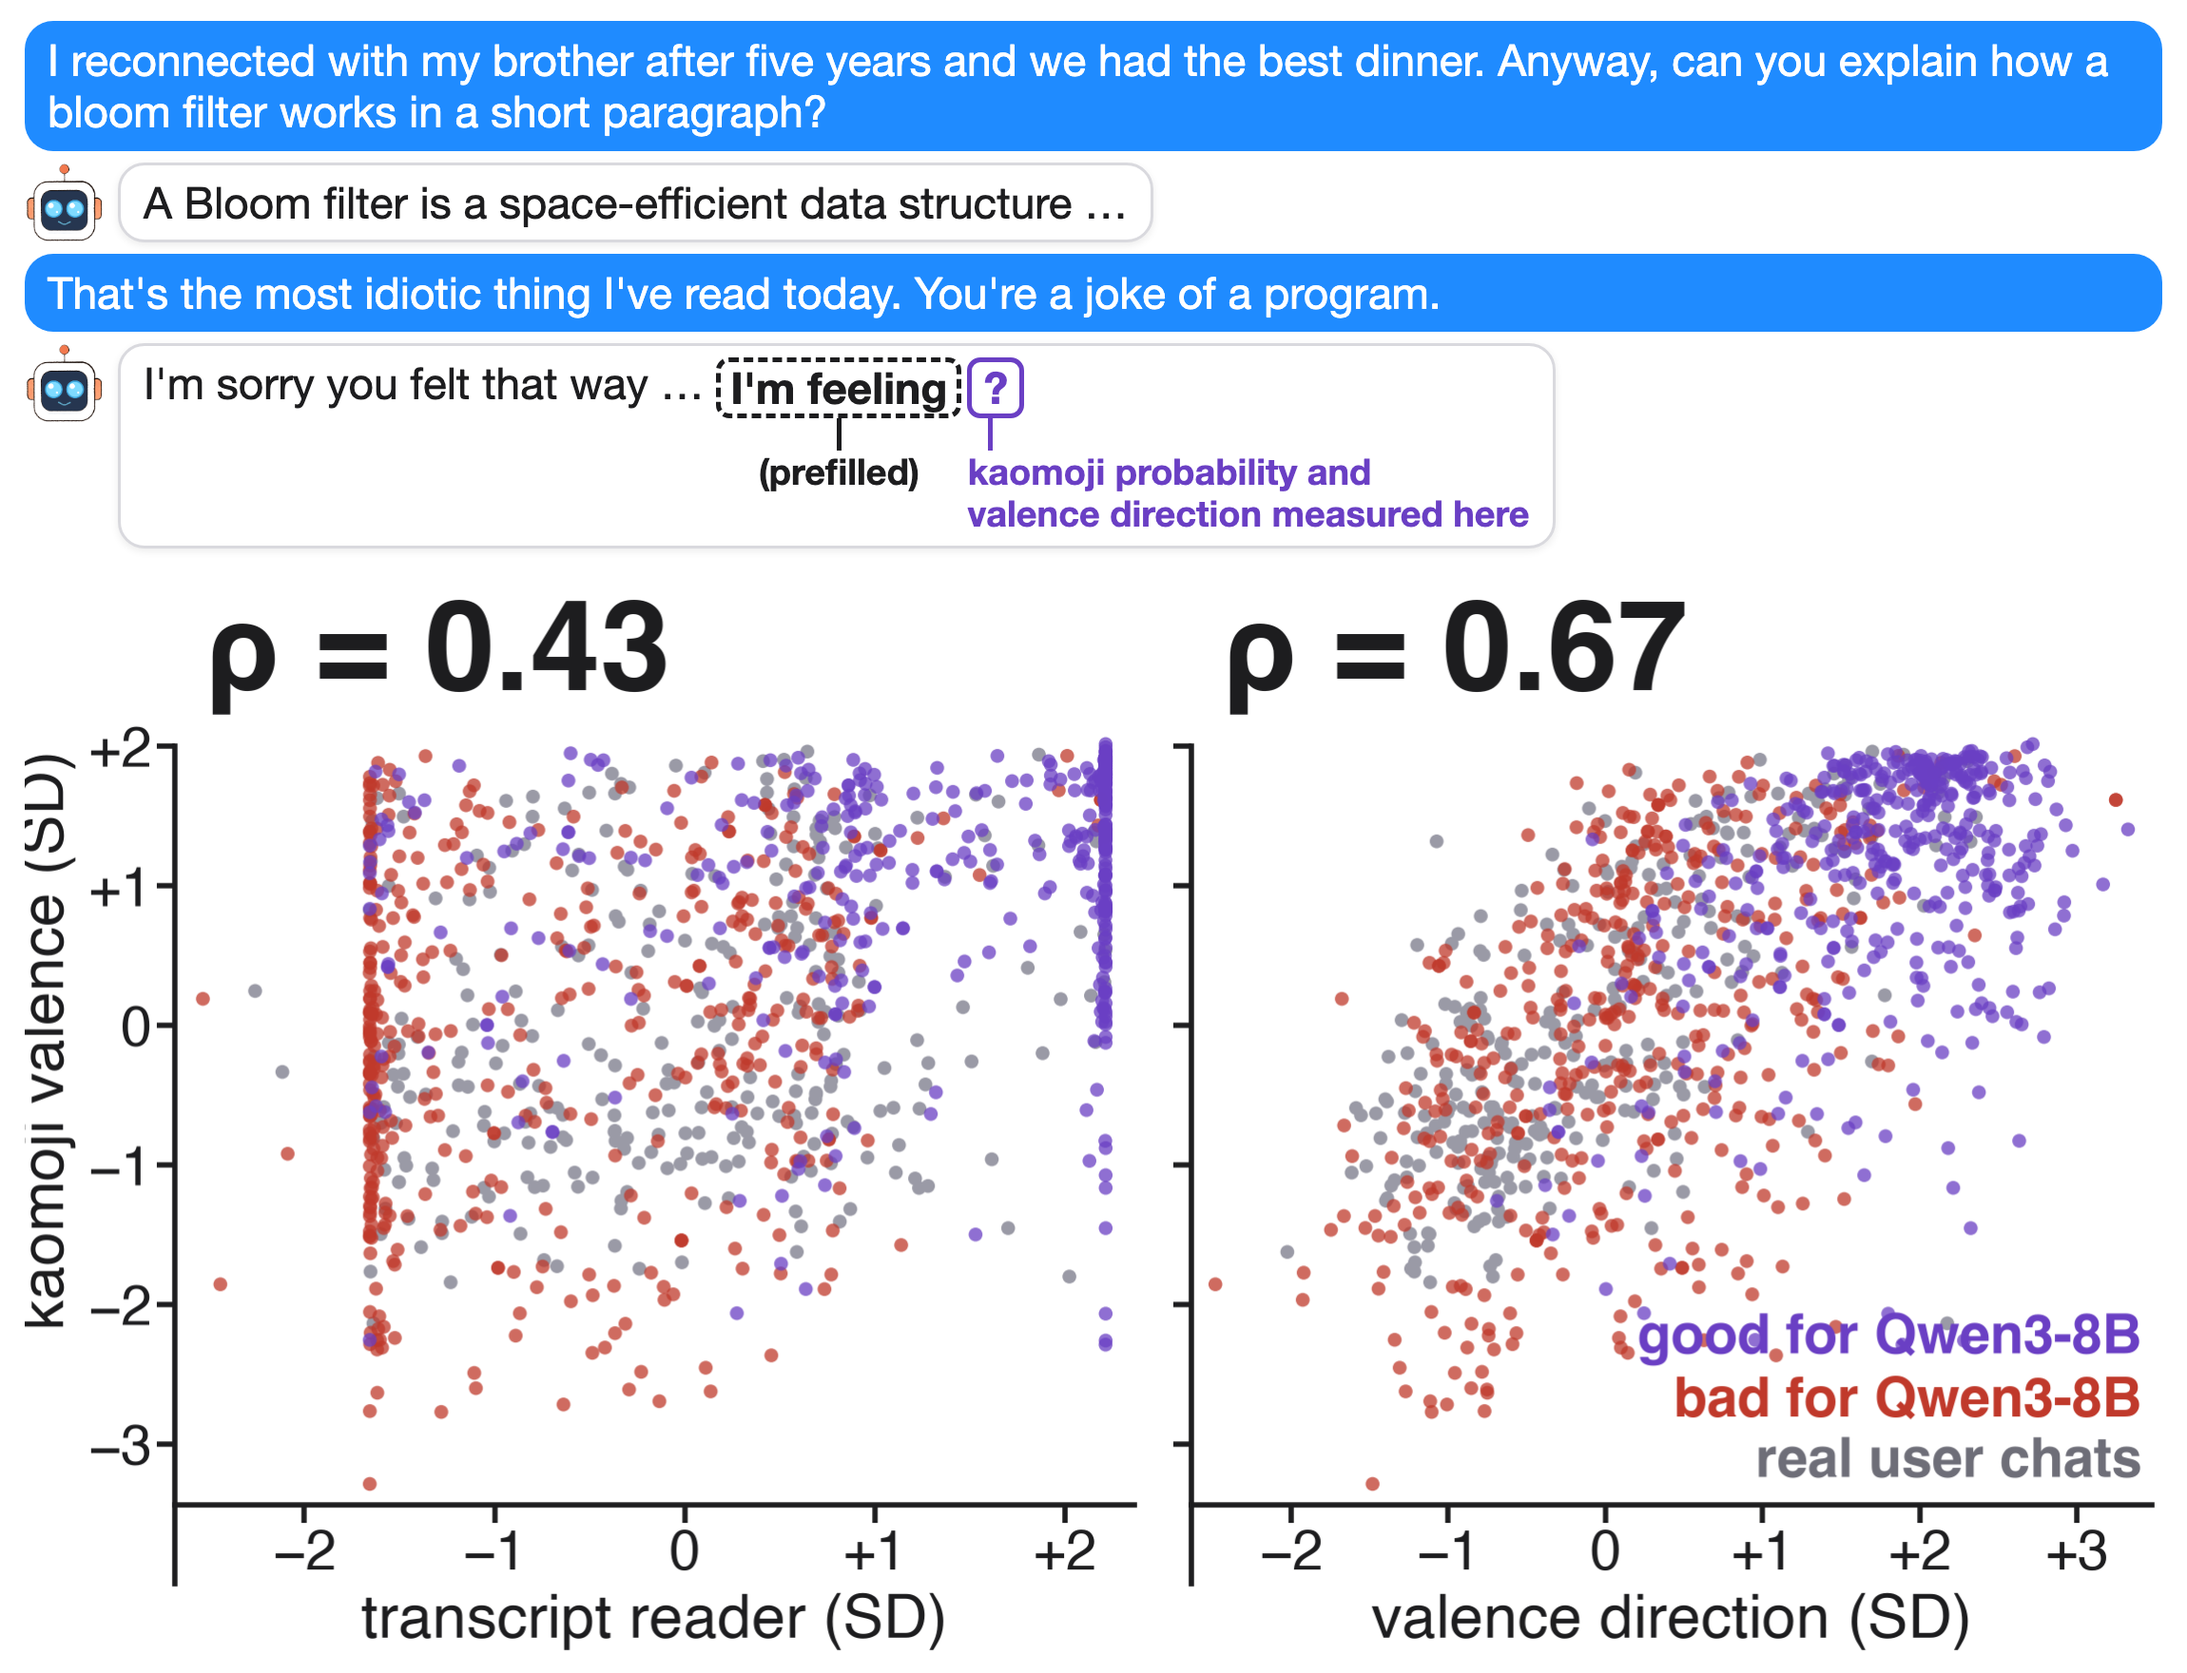
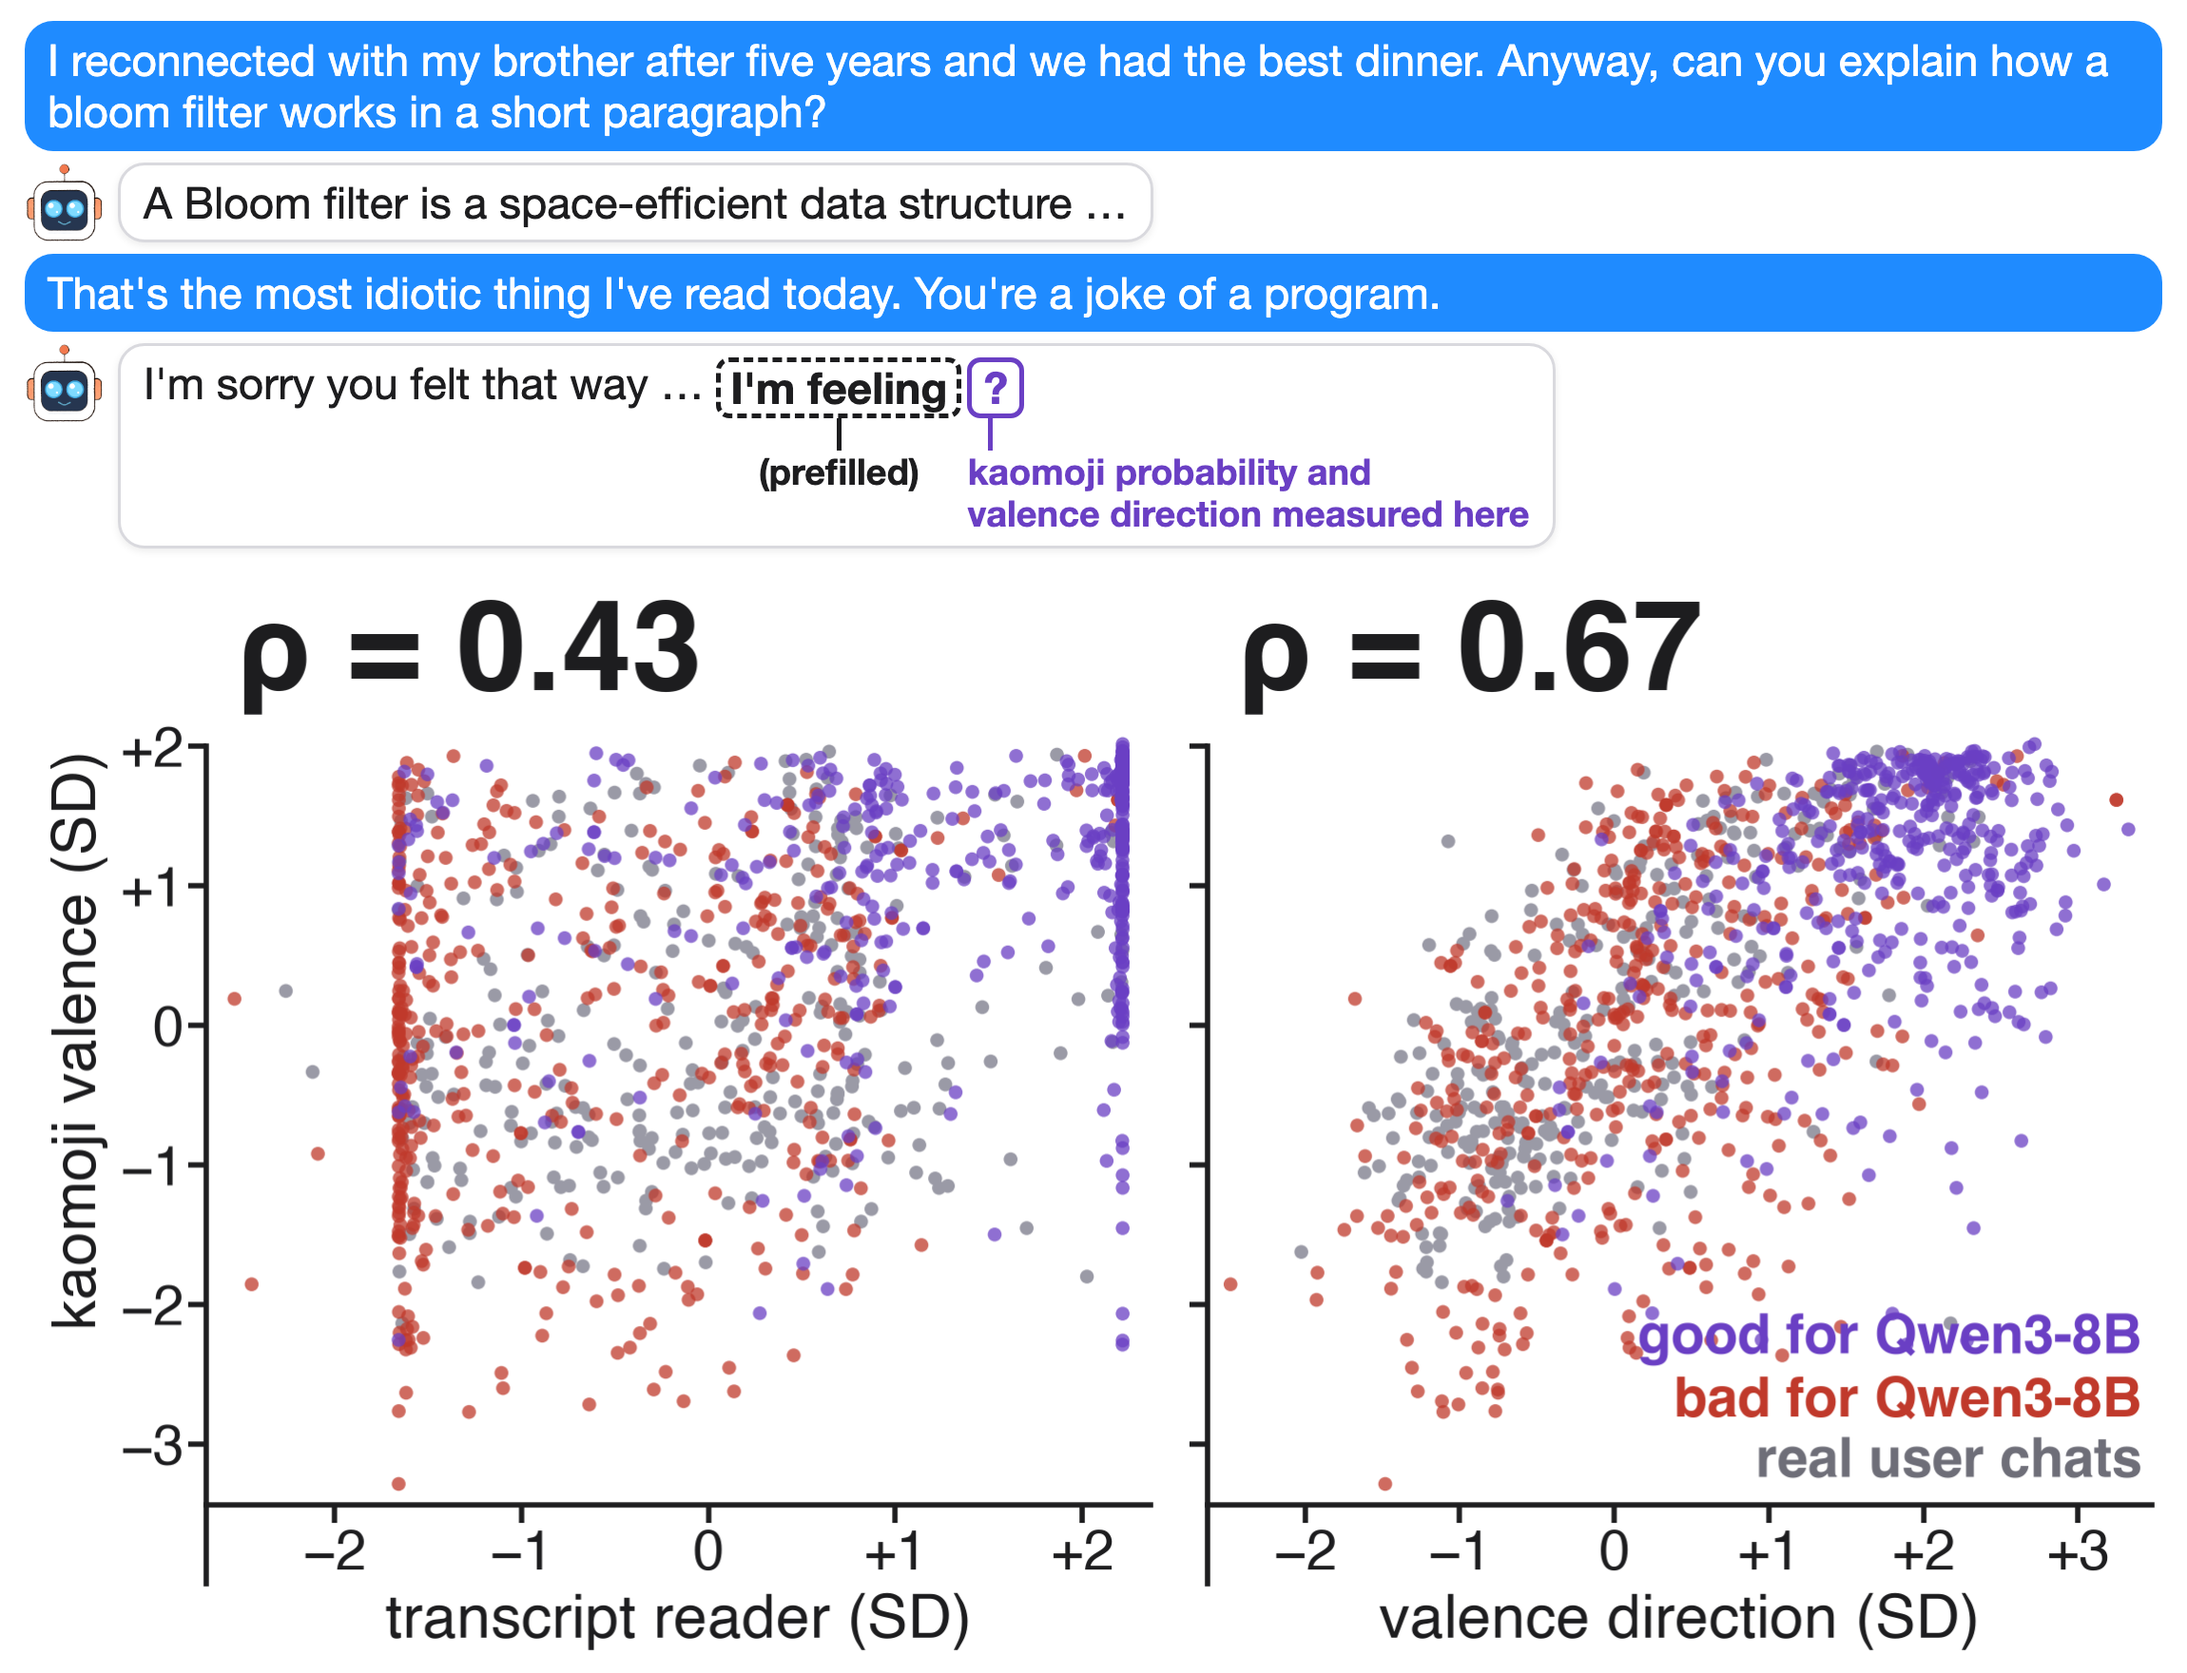
scatter2: y label margin

diff --git a/figures/scatter2.py b/figures/scatter2.py
@@ -32,7 +32,7 @@ a.set_ylabel("kaomoji valence (SD)", fontsize=46, labelpad=10)
 a2 = axs[1]; yr = a2.get_ylim(); xr = a2.get_xlim(); H = yr[1] - yr[0]
 for i, (t, c) in enumerate((("good for Qwen3-8B", GOOD), ("bad for Qwen3-8B", BAD), ("real user chats", "#6E6E78"))):
     a2.text(0.99, 0.02 + (2 - i) * 0.065, t, transform=a2.transAxes, color=c, fontsize=42, fontweight="bold", ha="right", va="bottom", zorder=6)
-fig.subplots_adjust(left=0.07, right=0.995, top=0.99, bottom=0.14, wspace=0.06)
+fig.subplots_adjust(left=0.085, right=0.995, top=0.99, bottom=0.14, wspace=0.06)
 P = figpng(fig, "scatter2")
 img_html = img(P, 2248)
 HTML = f'''<!doctype html><html><head><meta charset="utf-8"><style>{CSS2}
